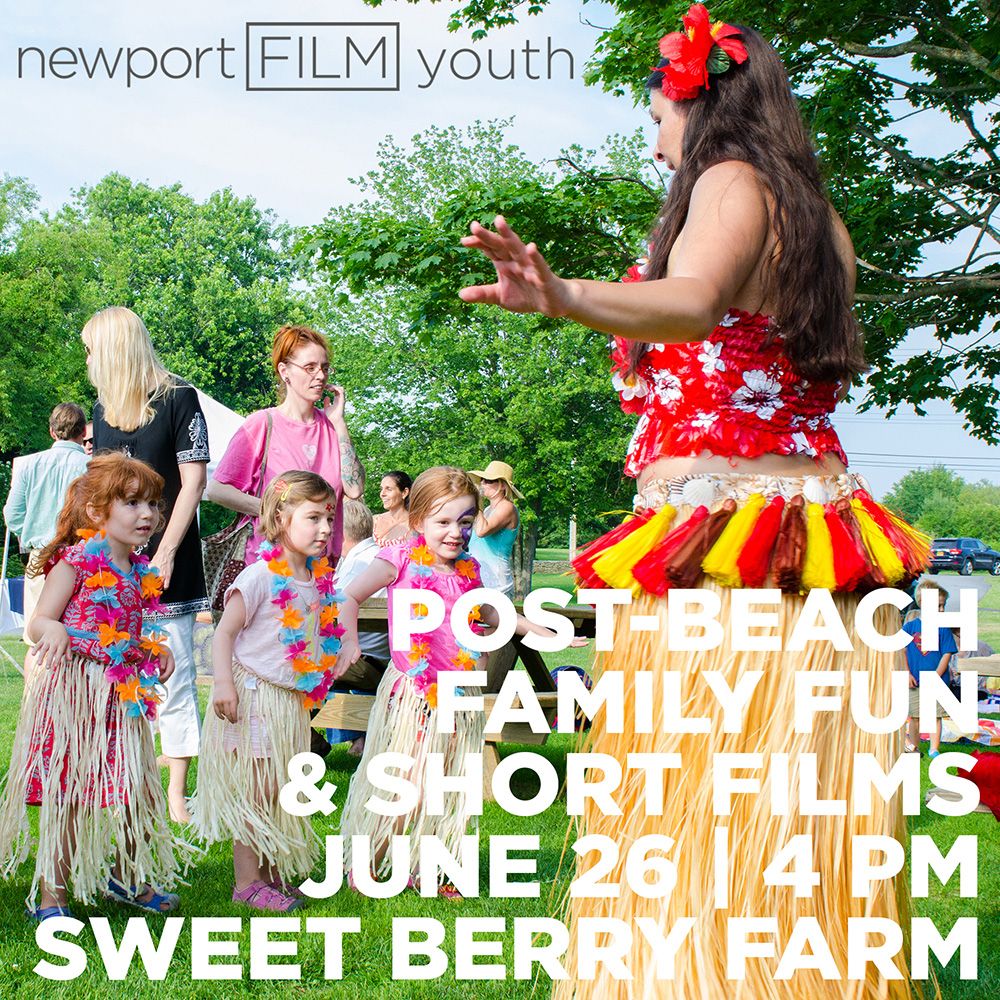
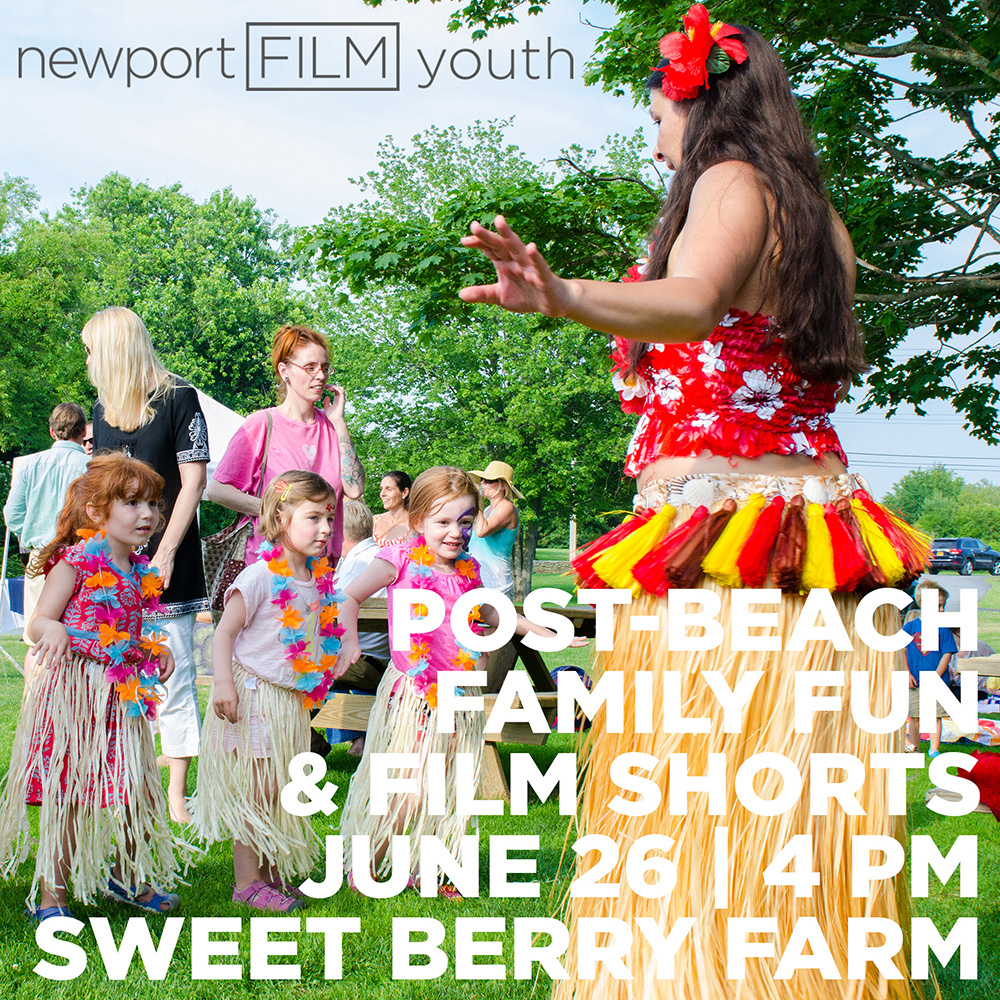
images and things

Changed region(s): [[0.372, 0.744, 0.93, 0.837], [0.279, 0.775, 0.341, 0.806]]

diff --git a/sponsor/index.html b/sponsor/index.html
@@ -8,6 +8,10 @@
 <body>
 	<div id="container">
 		<div class="whole">
+			<a href="../img/sponsor/SponsorBoard_Navy1.jpg"><img src="../img/sponsor/SponsorBoard_Navy1.jpg"></a>
+			<a href="../img/sponsor/SponsorBoard_Navy2.jpg"><img src="../img/sponsor/SponsorBoard_Navy2.jpg"></a>
+			<a href="../img/sponsor/SponsorBoard_LightTeal1.jpg"><img src="../img/sponsor/SponsorBoard_LightTeal1.jpg"></a>
+			<a href="../img/sponsor/SponsorBoard_LightTeal2.jpg"><img src="../img/sponsor/SponsorBoard_LightTeal2.jpg"></a>
 			<a href="../img/sponsor/SponsorBoard_Edited2.jpg"><img src="../img/sponsor/SponsorBoard_Edited2.jpg"></a>
 			<a href="../img/sponsor/SponsorBoard_Edited2_1.jpg"><img src="../img/sponsor/SponsorBoard_Edited2_1.jpg"></a>
 			<a href="../img/sponsor/SponsorBoard.jpg"><img src="../img/sponsor/SponsorBoard.jpg"></a>

diff --git a/index.html b/index.html
@@ -10,7 +10,7 @@
 		<div class="whole">
 			<h1>Summer Schedule</h1>
 			<ul>
-			<li><strong>June 26</strong> - 4-6pm, Sweet Berry Farm, Post-Beach Family Fun &amp; Short Films</li>
+			<li><strong>June 26</strong> - 4-6pm, Sweet Berry Farm, Post-Beach Family Fun &amp; Film Shorts</li>
 			<li><strong>June 26</strong> - 8:30, Sweet Berry Farm, Endless Abilities</li>
 			<li><strong>July 10</strong> - 8:15, Queen Anne Square, Bella Vita</li>
 			<li><strong>July 18</strong> - 6-8pm, International Tennis Hall of Fame, Summer Benefit</li>
